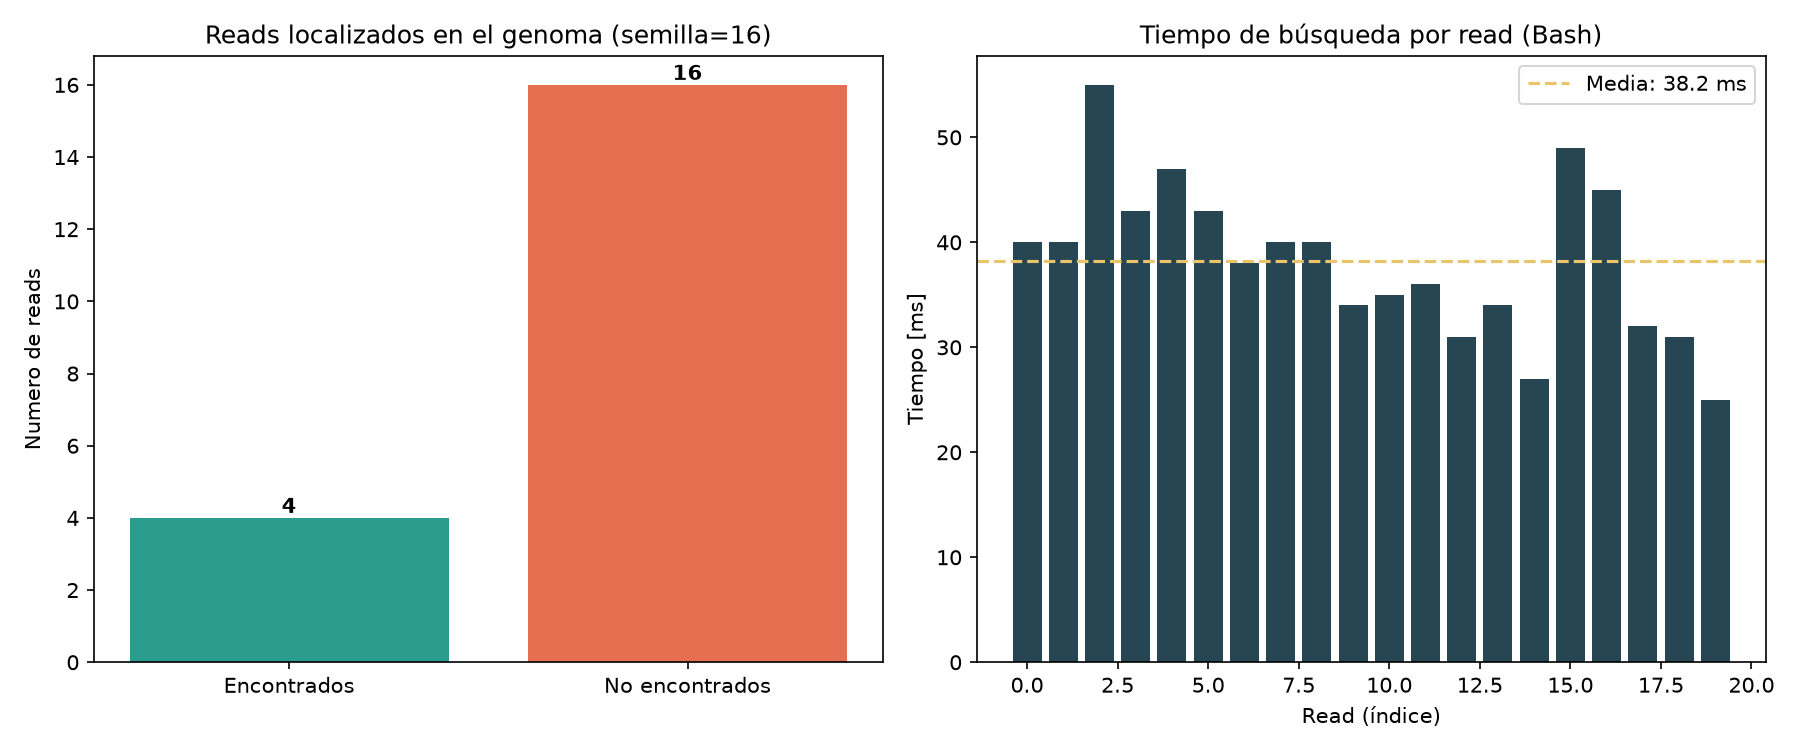
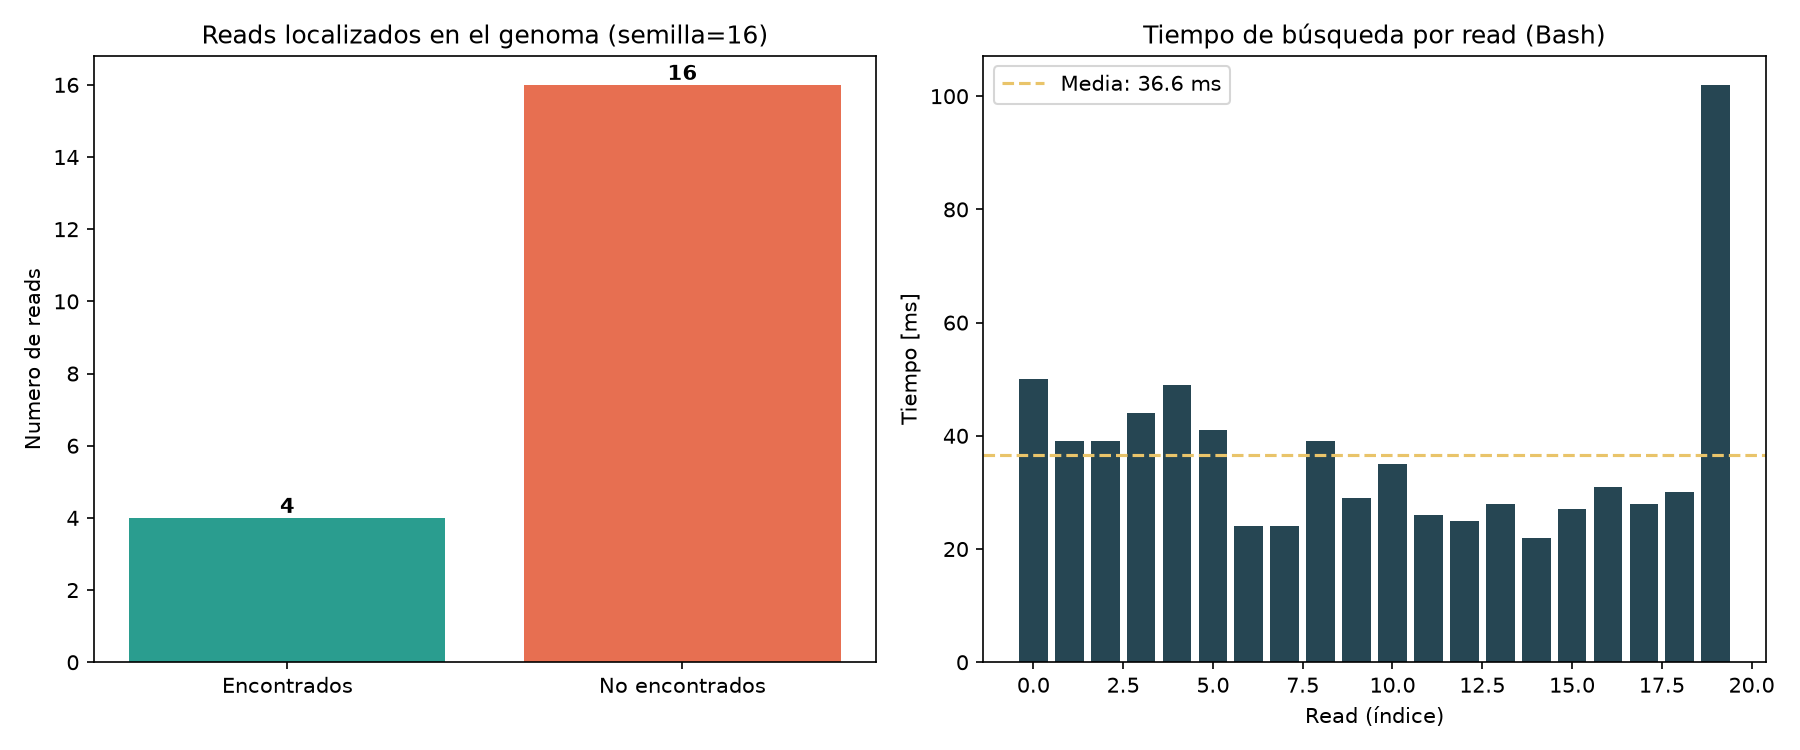
Integrar GENERA_REPORTE al pipeline: Proceso 2 completo

diff --git a/Results/External/reporte_bash.html b/Results/External/reporte_bash.html
@@ -20,8 +20,8 @@ A continuacion se resumen los resultados del <code>calculoBashTask</code> que fu
   <tr><td>Encontrados en el genoma</td><td>4</td></tr>
   <tr><td>No encontrados</td><td>16</td></tr>
   <tr><td>Largo de semilla</td><td>16 bases</td></tr>
-  <tr><td>Tiempo medio por búsqueda</td><td>38.25 ms</td></tr>
-  <tr><td>Tiempo total</td><td>765 ms</td></tr>
+  <tr><td>Tiempo medio por búsqueda</td><td>36.60 ms</td></tr>
+  <tr><td>Tiempo total</td><td>732 ms</td></tr>
 </table>
 <h2>Visualización</h2>
 <img src="Figures/reporte_bash.png" alt="Resultados de la búsqueda en Bash">